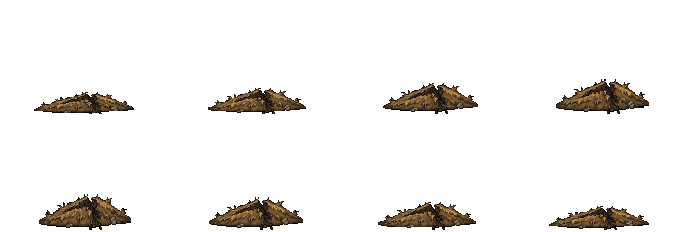
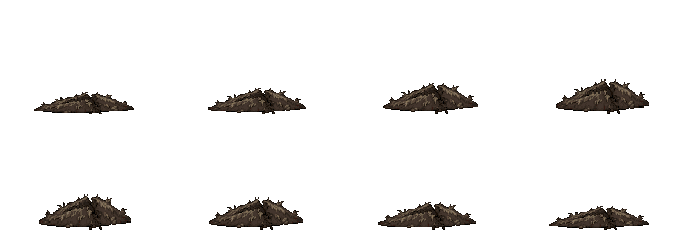
Donjon : la bosse et la galerie du Ver prennent les couleurs de sa butte

diff --git a/godot/scripts/Game/BattleEffects.cs b/godot/scripts/Game/BattleEffects.cs
@@ -339,8 +339,9 @@ public sealed class BattleEffects
 
     // ------------------------------------------------------------------ le fouisseur
 
-    private static readonly Color EarthDark = new(0.22f, 0.15f, 0.1f), EarthMid = new(0.42f, 0.3f, 0.19f),
-        EarthLight = new(0.58f, 0.45f, 0.3f), Pebble = new(0.56f, 0.54f, 0.5f);
+    // les couleurs de la butte du Ver des profondeurs (terre sombre et cailloux) : la galerie est la même terre
+    private static readonly Color EarthDark = new(0.14f, 0.1f, 0.07f), EarthMid = new(0.25f, 0.2f, 0.16f),
+        EarthLight = new(0.4f, 0.35f, 0.28f), Pebble = new(0.5f, 0.48f, 0.44f);
 
     /// <summary>
     /// Un morceau de la galerie, comme celle d'une taupe : une petite bosse de terre soulevée (le haut éclairé, l'ombre au
